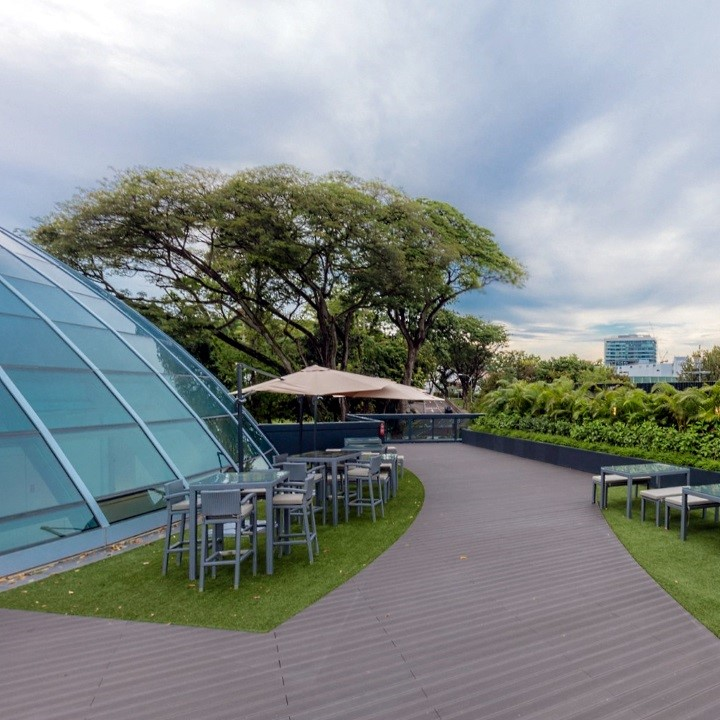
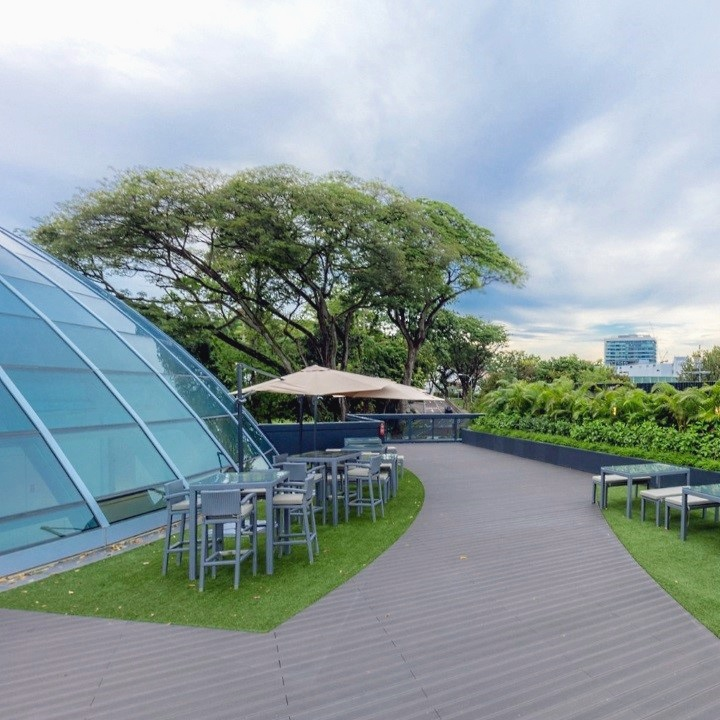
Update content for KGC

diff --git a/less/index.less b/less/index.less
@@ -64,7 +64,7 @@ header {
       display: flex;
       flex-direction: column;
       flex: 1;
-      background-image: url('images/kgc.jpg');
+      background-image: url('images/kgc_cover_n_1.jpg');
       background-size: cover;
       background-position: center;
       cursor: pointer;
